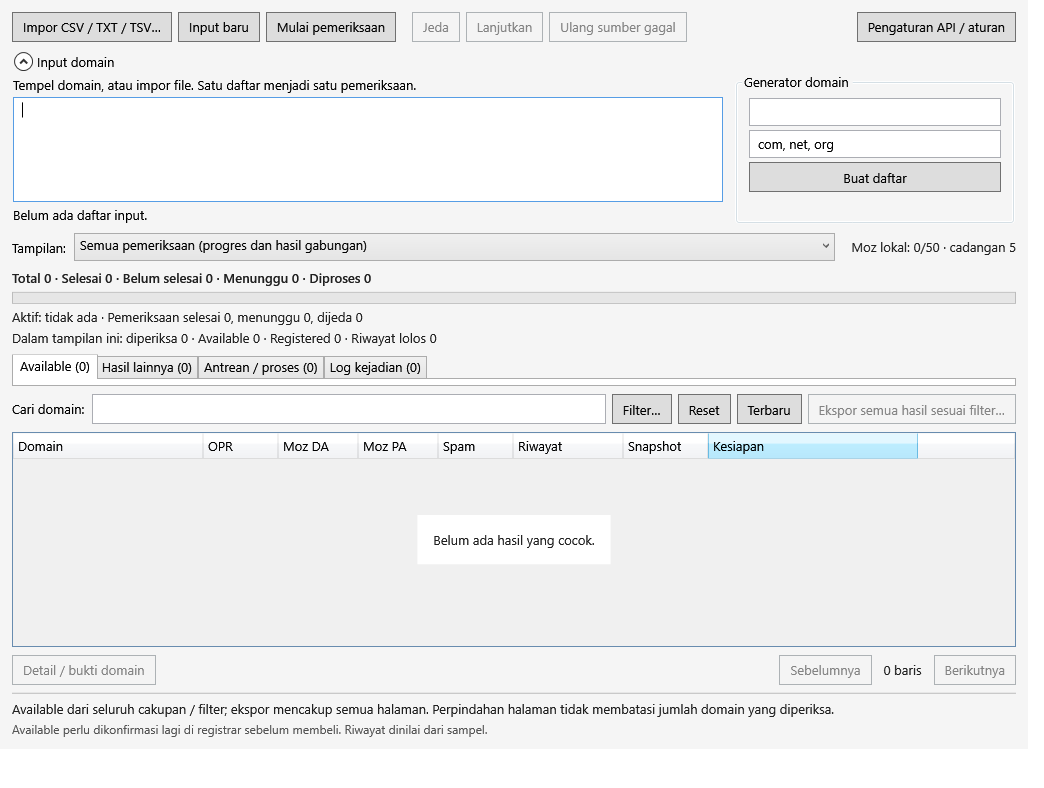
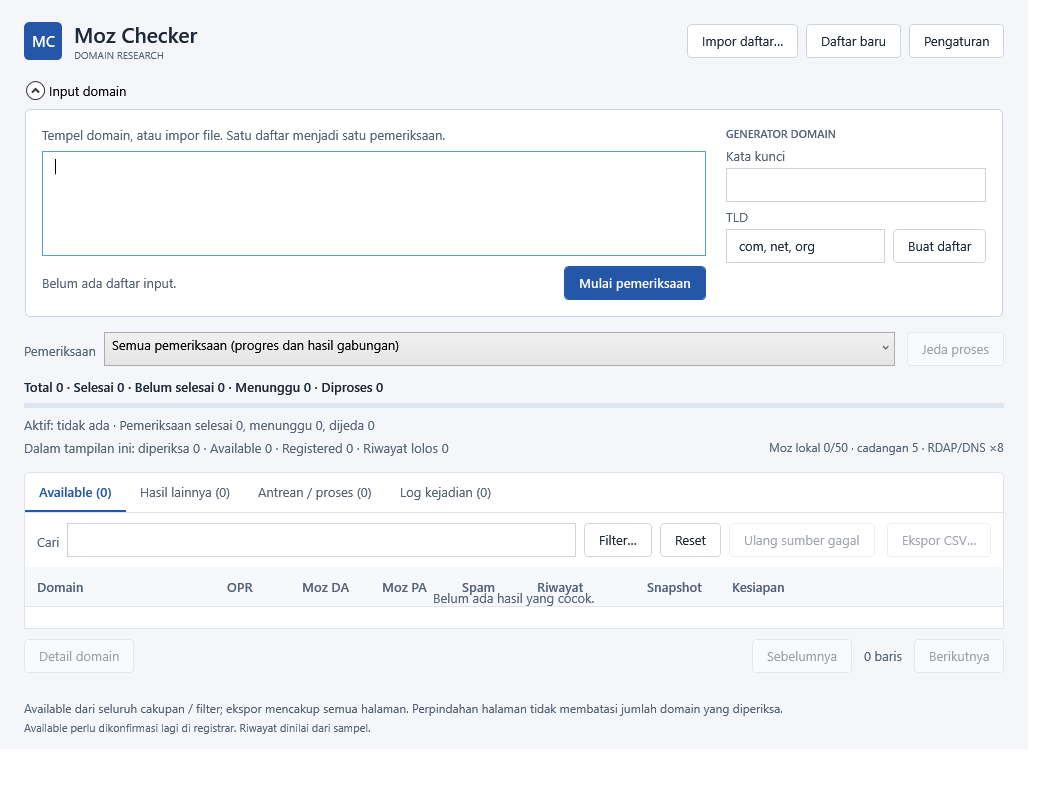
Pin reviewed v0.5.0 package with native resume screenshots and review evidence [skip ci]

diff --git a/docs/releases/v0.5.0.md b/docs/releases/v0.5.0.md
@@ -1,0 +1,17 @@
+Review alur kerja dan pembaruan workspace Moz Checker.
+
+- **Melanjutkan data lama:** aplikasi membuka workspace tersimpan dengan input baru tertutup dan banner **Lanjutkan pemeriksaan** beserta jumlah domain tersisa. Pilih **Semua pemeriksaan** untuk meneruskan seluruh sesi pecahan lama. Tidak perlu impor ulang.
+- **Resume dari checkpoint:** pekerjaan yang sudah sampai OPR, Wayback atau Moz melanjutkan tahapnya; hasil domain selesai dipertahankan. Resume satu sesi tidak menjalankan sesi lain yang masih antre.
+- **Retry terarah:** hanya sumber yang perlu diperiksa ulang yang dijadwalkan. No-key/kuota Moz bisa dicoba setelah pengaturan diperbaiki; paid request failed/reserved/uncertain tetap tidak diulang otomatis.
+- **Concurrency tersedia:** Pengaturan → Aturan hunting → Concurrency RDAP/DNS, 1–32, default 8. Rate limit tiap server tetap berlaku; Wayback/Moz tetap serial.
+- **UI lebih terarah:** permukaan putih/slate, aksen biru, tipografi dan spacing konsisten, tabel padat, fokus keyboard, status operasi terlihat dan generator berlabel. Tidak ada kartu dashboard atau slogan.
+- **Ketahanan proses:** marker paid request dan kuota disimpan atomik; timeout juga berlaku saat membaca body; angka OPR berbentuk teks didukung; cache/bootstrap gagal ditangani; CSV lama dipertahankan bila ekspor gagal.
+- **Workflow build/rilis:** paket dibangun dalam folder bersih, tools publisher diuji di CI, dan bukti smoke resume diwajibkan sebelum rilis.
+
+Tutup versi lama dan ekstrak **seluruh ZIP** ke folder baru. Memerlukan Microsoft .NET 10 Desktop Runtime x64. Buka dengan akun Windows/lokasi data yang sama; SQLite, hasil lama dan kuota tetap dipakai. Gunakan **Lanjutkan** untuk pekerjaan tertunda, **Ulang sumber gagal** untuk kegagalan sumber. Log sebelum versi yang merekam event persisten tidak dibuat-buat.
+
+Laporan review dan batas pengujiannya: https://github.com/bisrib613/moz-checker/blob/main/docs/CODE-REVIEW-0.5.0.md.
+
+Tetap Preview; bukan jaminan semua lingkungan Windows. Investigasi deteksi paket Python lama masih terbuka. Jangan memulihkan file yang dikarantina atau menonaktifkan antivirus. Bukti dan batas pengujian: https://github.com/bisrib613/moz-checker/blob/main/docs/SECURITY-INVESTIGATION.md.
+
[1 lines of base64/hex data omitted]

diff --git a/README.md b/README.md
@@ -1,8 +1,12 @@
 # Moz Checker — C# / WPF for Windows 11
 
-Versi desktop C# (v0.4.1 Preview) menggunakan **C# + .NET 10 WPF**, tanpa Python di paket Windows. Paket kecil membutuhkan **.NET 10 Desktop Runtime x64** yang dipasang terpisah. Lihat [migrasi dan cara build](docs/DOTNET-MIGRATION.md). [Unduh v0.4.1 Preview](https://github.com/bisrib613/moz-checker/releases/tag/v0.4.1). Publikasi preview ini dibatasi ke paket C# yang telah diverifikasi; investigasi paket Python lama masih terbuka.
+Versi desktop C# (v0.5.0 Preview) menggunakan **C# + .NET 10 WPF**, tanpa Python di paket Windows. Paket kecil membutuhkan **.NET 10 Desktop Runtime x64** yang dipasang terpisah. Lihat [migrasi dan cara build](docs/DOTNET-MIGRATION.md). [Unduh v0.5.0 Preview](https://github.com/bisrib613/moz-checker/releases/tag/v0.5.0). Publikasi preview ini dibatasi ke paket C# yang telah diverifikasi; investigasi paket Python lama masih terbuka.
 
-**RDAP v0.4.1:** rute TLD yang hilang dari cache memicu pembaruan daftar resmi IANA sebelum dinyatakan tidak tersedia. Termasuk `.fr`; setelah upgrade, pilih **Ulang sumber gagal** untuk mencoba kembali. Kegagalan memperbarui daftar dibedakan dari TLD tanpa rute dan tetap berstatus unknown.
+**Workspace v0.5.0:** saat data lama tersedia, banner **Lanjutkan pemeriksaan** menampilkan jumlah domain tersisa dan input baru tertutup. Pilih **Semua pemeriksaan** untuk antrean lama; tidak perlu impor ulang. Resume mengikuti checkpoint, retry hanya menjadwalkan sumber yang perlu diperiksa, dan concurrency RDAP/DNS dapat diatur 1–32 (default 8).
+
+[Review kode dan alur kerja](docs/CODE-REVIEW-0.5.0.md) · [Layout kompak](docs/desktop-resume-compact.png)
+
+![Workspace resume — data sintetis](docs/desktop-resume.png)
 
 **Daftar besar v0.4.0:** satu impor menjadi satu pemeriksaan penuh, tanpa pemecahan per 1.000 domain atau batas file 5 MB. CSV/TXT/TSV langsung diparse dan dideduplikasi. Pratinjau input dan tabel dibagi per 200 baris; seluruh daftar tetap diproses, dicari, dan diekspor.
 

diff --git a/docs/CODE-REVIEW-0.5.0.md b/docs/CODE-REVIEW-0.5.0.md
@@ -36,8 +36,10 @@ Riwayat hasil dan kuota dipertahankan. Event sebelum versi yang menyediakan log 
 
 ## Batas verifikasi
 
-- Tes lokal: 92 tes core, 9 tes tools publisher, 57 tes sumber Python referensi; cross-build WPF tanpa warning/error. Hasil final native Windows dan hash paket dicatat pada bukti rilis.
+- Tes lokal: 92 tes core, 9 tes tools publisher, 57 tes sumber Python referensi; cross-build WPF tanpa warning/error. Native Windows juga lulus 92 tes dan smoke resume. Hash paket dicatat pada bukti rilis.
 - Tes 510.288 domain memverifikasi impor/penyimpanan/query/progres, bukan 510.288 permintaan ke provider nyata. Pipeline mock melewati 1.000 domain; batas rate provider tetap berlaku.
 - OPR/Moz berbayar dengan akun nyata tidak dipanggil dalam review ini. Integrasi Moz tetap Links API v2, bukan token v3; WHOIS belum tersedia. Gangguan jaringan dan TLD tanpa rute resmi tetap unknown.
+- Pemeriksaan dependensi NuGet mencakup paket transitif; sumber advisori saat review tidak melaporkan paket rentan. Ini bukan audit seluruh source dependency.
+- Screenshot native reguler aktual 1044×788 (permintaan 1440×900 dibatasi desktop runner), serta kompak 1040×700.
 - High-DPI, pembaca layar dan perangkat Windows pengguna belum disertifikasi. Screenshot runner menggunakan data sintetis.
 - Python 0.2.0 tetap referensi lama, tidak dikemas dalam EXE baru. Tes sumber lama yang lulus tidak menyelesaikan investigasi karantina binary lamanya. Keterbatasan investigasi dicatat di SECURITY-INVESTIGATION.md.

diff --git a/design-system/moz-checker/MASTER.md b/design-system/moz-checker/MASTER.md
@@ -11,4 +11,4 @@ The user rejected both a decorative dark dashboard and the subsequent unstyled g
 - Persistent events are newest first, timestamped locally from UTC; waiting rows remain separate. History pages are anchored. No invented historical events.
 - Grid pagination/search/filter/sort/export cover the full selected scope. Virtualize rows and columns. Read work in bounded SQLite cursor pages; import/query/export/resume/retry operate off the UI thread.
 - WPF keyboard/Grid/virtualization recommendations were relevant. Generic catalog product styles returned irrelevant website/research-platform recommendations and were rejected; this tool's composition and palette are deliberate project-specific choices.
-- Verify native screenshots with synthetic resumed data at 1440×900 and 1040×700, plus the empty state. These checks are not a high-DPI/accessibility certification.
+- Verify native screenshots with synthetic resumed data in regular and compact layouts, plus the empty state. The runner clamps a requested 1440×900 window to an actual 1044×788 capture; the compact capture is 1040×700. Record actual sizes rather than claiming an unobserved full-size render. These checks are not a high-DPI/accessibility certification.
